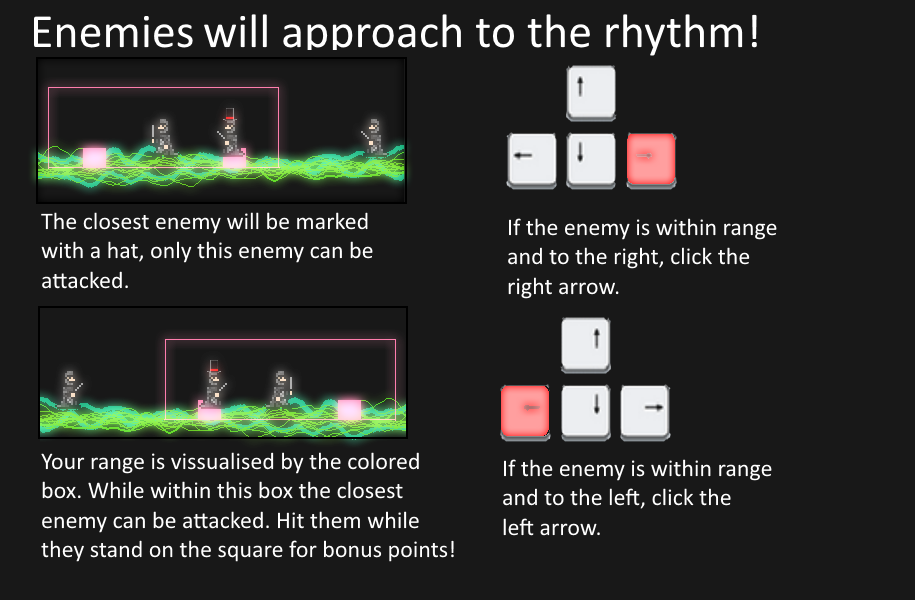
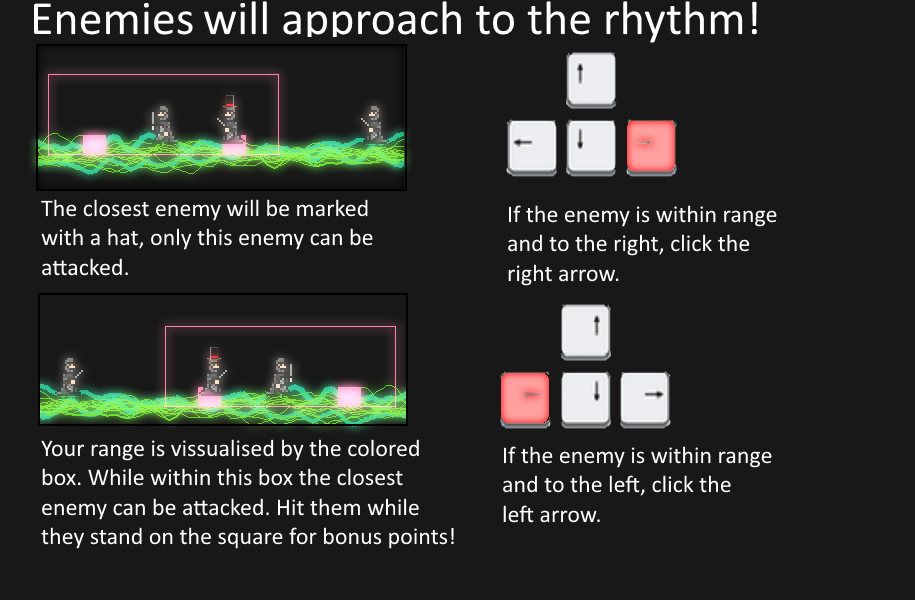
made the checkbox visible and correctly placed, updated the tutorialimage.

Changed region(s): [[0.0306, 0.0, 0.8568, 0.9], [0.0306, 0.54, 0.4896, 0.93], [0.0306, 0.12, 0.459, 0.48]]

diff --git a/BeatToTheBeat/src/gui/TutorialPanel.java b/BeatToTheBeat/src/gui/TutorialPanel.java
@@ -1,8 +1,9 @@
 package gui;
 
+import java.awt.BorderLayout;
+import java.awt.Color;
 import java.awt.Dimension;
 import java.awt.Graphics;
-import java.awt.event.KeyEvent;
 import java.awt.image.BufferedImage;
 import java.io.IOException;
 import java.net.MalformedURLException;
@@ -21,18 +22,19 @@ public class TutorialPanel extends JPanel {
 	
 	
 	public TutorialPanel() {
-		//loadImage();
+		loadImage();
 		this.setVisible(true);
 		this.setPreferredSize(new Dimension(914,600));
 		procced = new JButton("Procced");
 		procced.setSize(100,30);
 		procced.setLocation(790,525);
 		JCheckBox show = new JCheckBox("Don't show this again");
-		
+		show.setBackground(new Color(24,24,24));
+		show.setForeground(Color.WHITE);
 
-		this.setLayout(null);
-		this.add(procced);
-		this.add(show);
+		this.setLayout(new BorderLayout());
+		this.add(procced, BorderLayout.SOUTH);
+		this.add(show, BorderLayout.SOUTH);
 		repaint();
 		revalidate();
 	}
